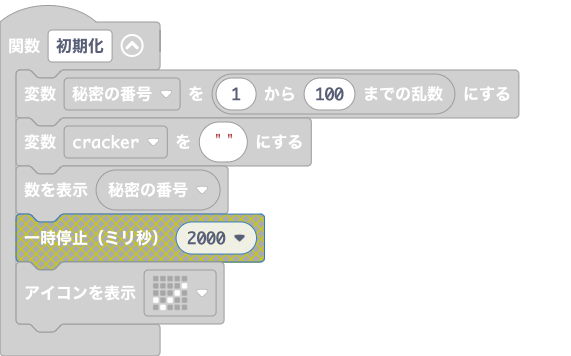
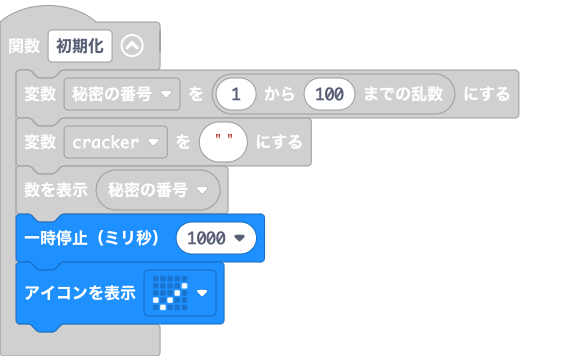
数字表示する時間を1秒確保

Changed region(s): [[0.0, 0.5871, 0.4764, 0.9579]]

diff --git a/main.ts b/main.ts
@@ -9,6 +9,7 @@ function 初期化 () {
     秘密の番号 = randint(1, 100)
     cracker = ""
     basic.showNumber(秘密の番号)
+    basic.pause(1000)
     basic.showIcon(IconNames.Yes)
 }
 input.onButtonPressed(Button.AB, function () {
